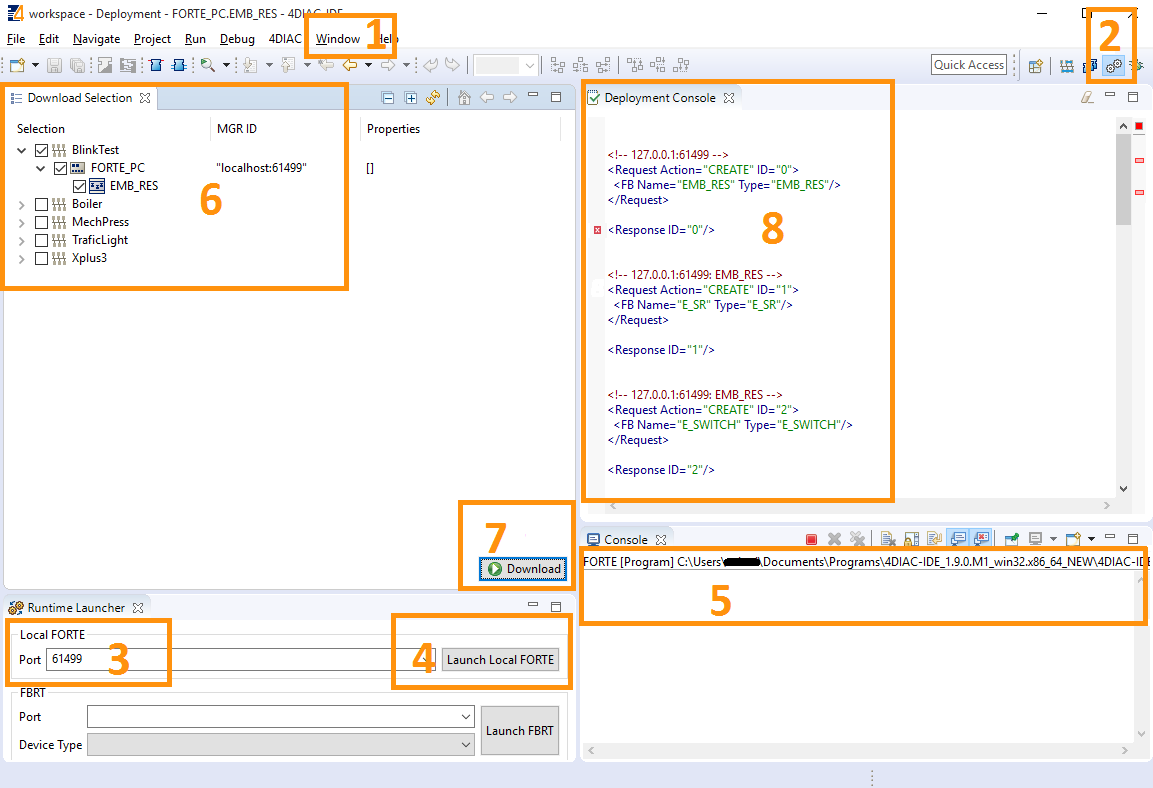
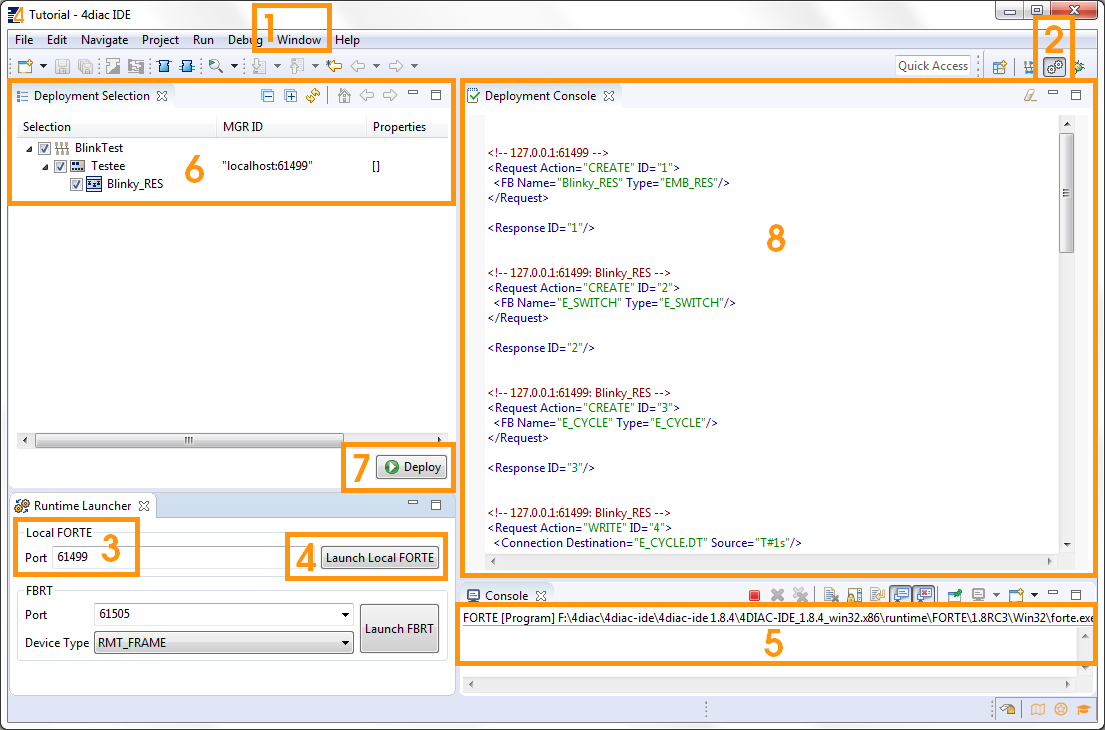
[539344] Update of tutorial step 1
Began to renew section Deploying application to 4diac FORTE

Bug: https://bugs.eclipse.org/bugs/show_bug.cgi?id=539344

Changed region(s): [[0.0, 0.0, 1.0, 1.0]]

diff --git a/plugins/org.eclipse.fordiac.ide/html/4diacIDE/use4diacLocally.html b/plugins/org.eclipse.fordiac.ide/html/4diacIDE/use4diacLocally.html
@@ -158,7 +158,7 @@
 
 <!----------------------------------------------------------------------------------------------------------------->
 
-    <h2 id="overviewEditors">Overview of the editors</h2>
+    <h2 id="overviewEditors">Overview of the Editors</h2>
     
     <p>Before we test our application, let's briefly summarize the elements we've worked with.</p>
 
@@ -188,7 +188,7 @@
           <th>System Configuration</th>
           <td>automatically generated, only one per system</td>
           <td>System Configuration Editor</td>
-          <td></td>
+          <td>System</td>
         </tr>
         <tr>
           <th>Device</th>
@@ -207,27 +207,35 @@
 
 <!----------------------------------------------------------------------------------------------------------------->
 
-     <h2 id="deployingToForte">Deploying application to FORTE</h2>
+     <h2 id="deployingToForte">Deploying application to 4diac FORTE</h2>
      
-     <p>In this step, the Blink application will be deployed to FORTE running locally.</p>
+     <p>In this step, the Blink application will be deployed to 4diac FORTE running locally on your computer.</p>
 
      <ol>
-       <li>Go to <span class="menu4diac">Windows &rarr; Preferences &rarr; 4DIAC &rarr; FORTE Preferences</span>, and in <span class="addressDoc">FORTE Location</span> look for FORTE inside your 4DIAC folder in <span class="fileLocation">runtime/FORTE/1.8RC3/[YOUR_OS]/forte[.exe]</span> and then click OK.</li>
-       <li>Change to the Deployment Persperctive using the <img src="./img/perspective/deploymentButton.gif" alt="Deployment Perspective Button" class="inlineImg"/> button.</li>
+       <li>You have to select a 4diac FORTE. 
+       <br/>You can either build your own 4diac FORTE as <a href="../installation/install.html#ownFORTE">shown here</a> or you can choose the 4diac FORTE that is provided for you for this tutorial in the 4diac IDE folder. Go to <span class="menu4diac">Windows &rarr; Preferences &rarr; 4diac IDE &rarr; FORTE Preferences</span>, and in <span class="addressDoc">FORTE Location</span> look for FORTE inside your 4diac IDE folder in <span class="fileLocation">runtime/FORTE/1.8RC3/[YOUR_OS]/forte[.exe]</span> and then click OK.</li>
+       <li>Change to the <i>Deployment Perspective</i> using the <img src="./img/perspective/deploymentButton.gif" alt="Deployment Perspective Button" class="inlineImg"/> button.</li>
        <li>Set the port to 61499 (the same define before, remember <span class="address">localhost:61499</span> in the System Configuration?)</li>
-       <li><span class="button4diac">Launch Local FORTE</span></li>
-       <li>You should see the the location of your FORTE and the STOP button enable in the Console.</li>
-       <li>Select the elements to deploy. In case you have many devices with many resources, you can select the devices to deploy and even which resources to deploy.</li>
-       <li>Click the <span class="button4diac">Download</span> button</li>
-       <li>Check that the deployment console shows some output, and that no red warning appears on the right nor left of it. If you get somthing red, something went wrong.</li>
+       <li><span class="button4diac">Launch Local 4diac FORTE</span></li>
+       <li>You should see the the location of your 4diac FORTE and the <b>Terminate</b> button enabled in the Console.</li>
+       <li>Select the elements to deploy. 
+           For this tutorial select our device <i>Testee</i>. 
+           In case you have many devices with many resources, you can select the devices to deploy and even which resources to deploy.</li>
+       <li>Click the <span class="button4diac">Deploy</span> button</li>
+       <li>Check that the <i>Deployment Console</i> shows some output, and that no red warning appears on the right nor left of it. If you get something red, something went wrong.</li>
      </ol>
      <img src="./img/deploymentExample.png" alt="Resource completely connected"/>
-    <p><span class="noteTitle">Note:</span><span class="noteText"> With the runtime launcher you can only start run-time environments in your local development computer. It is not possible to start run-time environments on remote computers or control devices. In order to perform this task device specific means to start the run-time environment have to be performed.</span></p>
+    <p><span class="noteTitle">Note:</span><span class="noteText"> With the runtime launcher you can only start run-time environments on your local development computer. 
+    It is not possible to start run-time environments on remote computers or control devices. 
+    In order to perform this task device specific means to start the run-time environment have to be performed.</span></p>
 
-    <p>The <span class="view4diac">Deployment Console</span> is automatically cleared before each download. Furthermore, with the icon <img src="./img/clearDeploymentConsole.png" alt="Clear Deployment Console" class="inlineImg" /> in the upper right corner of the <span class="view4diac">Deployment Console</span> the deployment messages can be cleared.</p>
+    <p>The <i>Deployment Console</i> is automatically cleared before each download. 
+    Furthermore, with the icon <img src="./img/clearDeploymentConsole.png" alt="Clear Deployment Console" class="inlineImg" /> in the upper right corner of the <i>Deployment Console</i> the deployment messages can be cleared.</p>
    
-    <p>By selecting a Device or Resource the corresponding IEC 61499 element can be cleaned. This means that the Device or Resource configuration are cleaned and reset to the default configuration without any Function Block Network.</p>
-    <p><span class="menu4diac">Delete All Resources</span> leaves the Device empty, and <span class="menu4diac">Kill Device</span> stops FORTE. You can deploy again after cleaning the Device</p>
+    <p>By selecting a Device or Resource the corresponding IEC 61499 element can be cleaned. 
+    This means that the Device or Resource configuration are cleaned and reset to the default configuration without any Function Block Network.</p>
+    <p><span class="menu4diac">Delete All Resources</span> leaves the Device empty, and <span class="menu4diac">Kill Device</span> stops 4diac FORTE. 
+    You can deploy again after cleaning the Device.</p>
     <img src="./img/cleanDevice.png" width="1024" alt="Clean Device" />
     <p><span class="menu4diac">Delete Resource</span> deletes just the selected resource:</p>
     <img src="./img/cleanResource.png" width="1024" alt="Clean Resource" />
